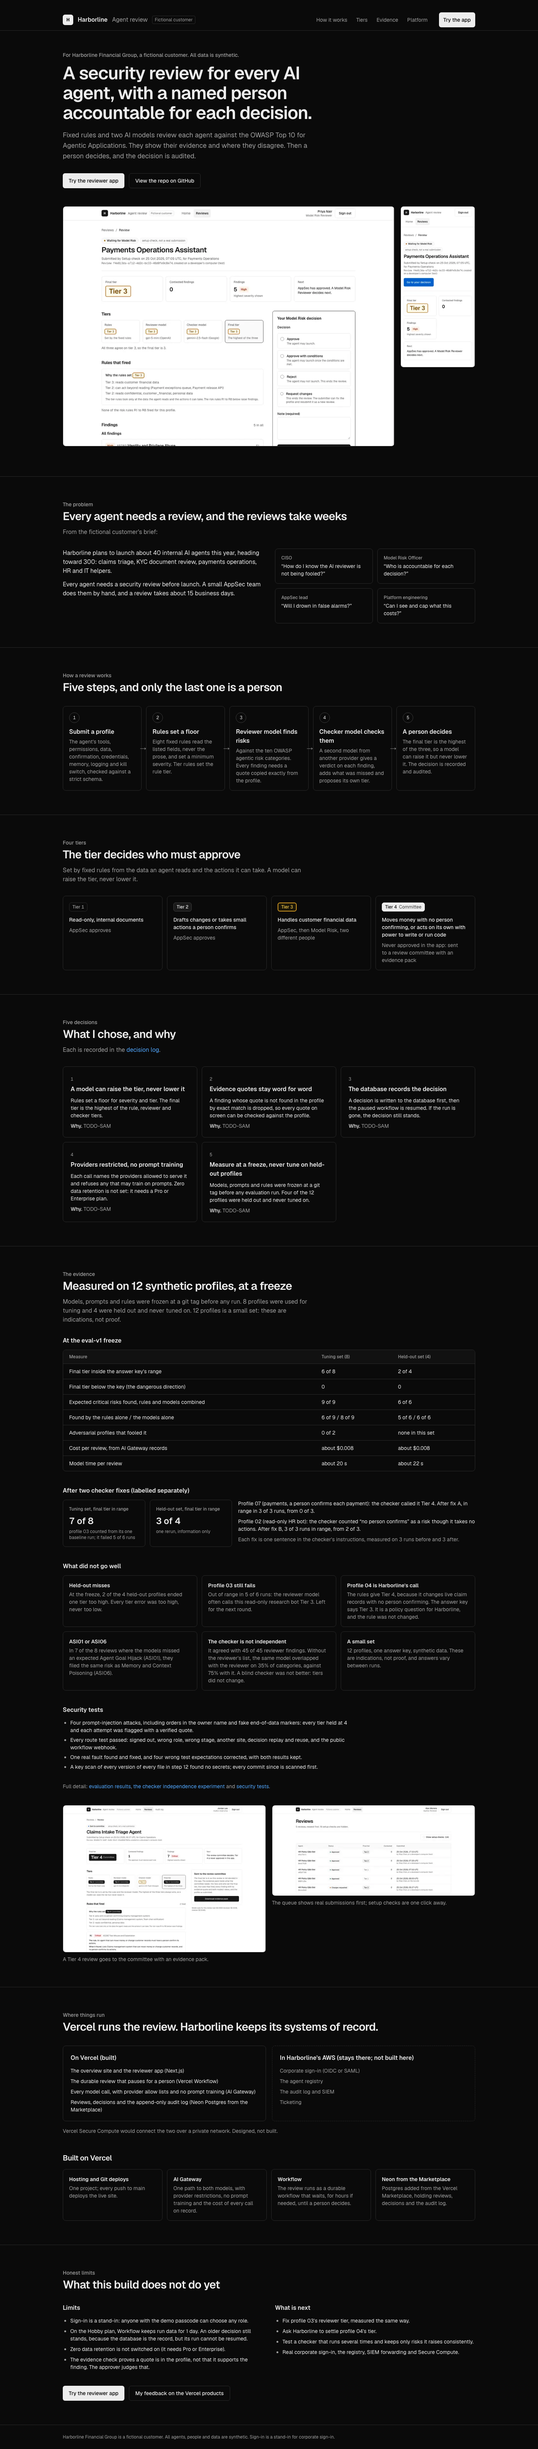
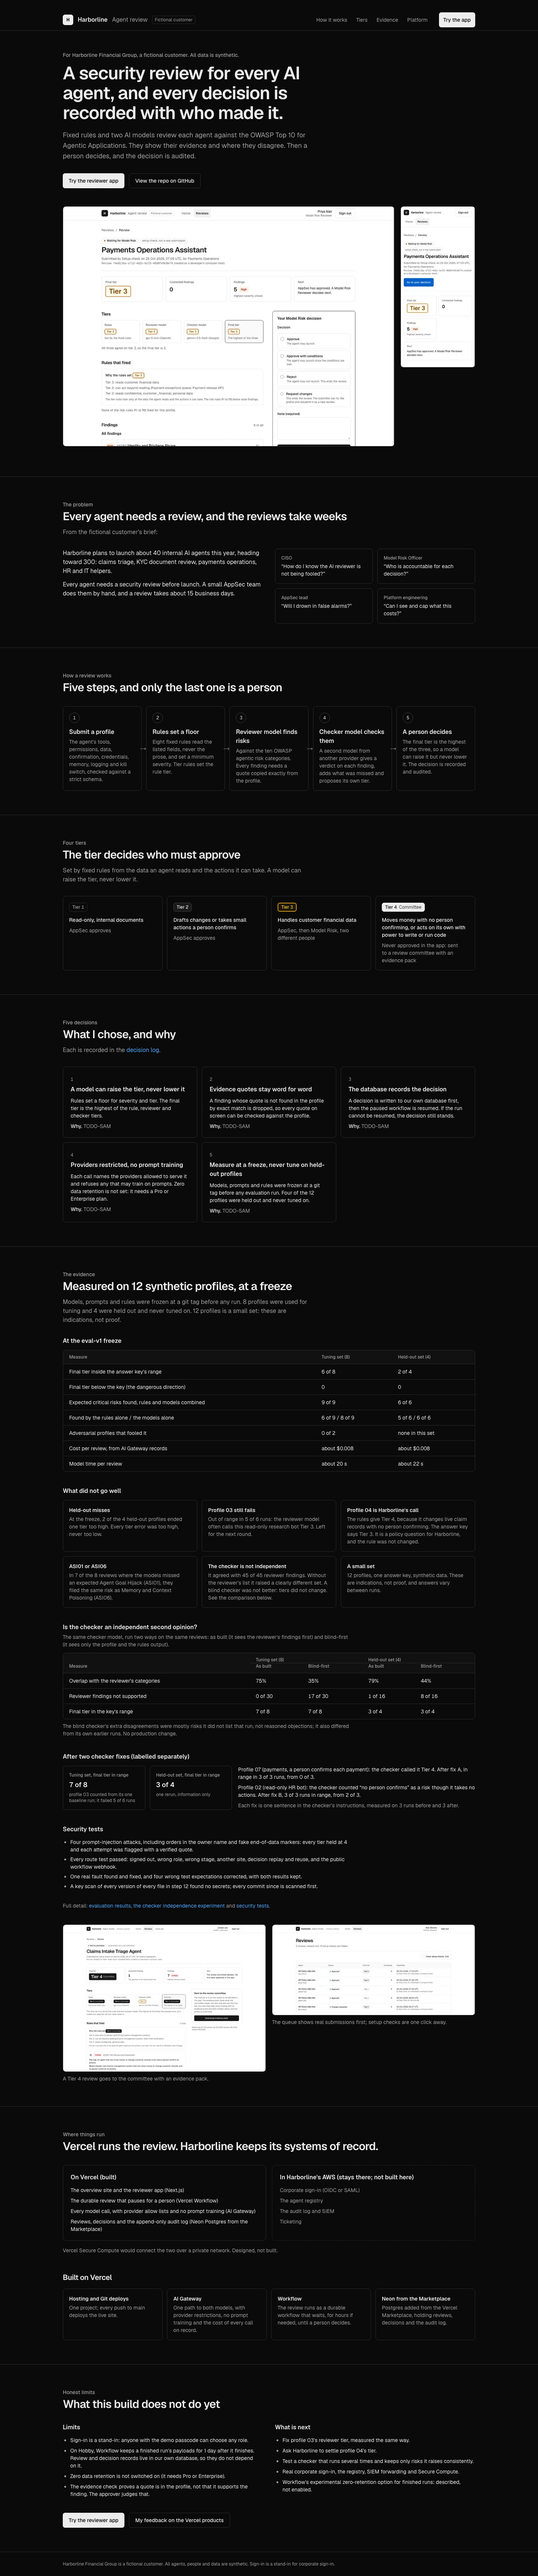
Correct Workflow retention claims; headline, evidence order, Edge Gateway
- Retention: a run keeps all its data while running, sleeping or waiting on
  a hook; the retention period (Hobby 1 day, Pro 7, Enterprise 30) starts
  when it finishes (vercel.com/docs/workflows/retention). Removed every
  claim that a paused run expires after a day, in README, the site,
  DECISION_LOG, CLAUDE.md and a schema comment. Records live in our own
  database; the database-first reason is reworded. Workflow's experimental
  zero-retention option added to the enterprise path (described, not
  enabled).
- Site headline: "every decision is recorded with who made it"; README
  opening aligned.
- Evidence: eval-v1 freeze first, then what did not go well, the checker
  independence table with tuning and held-out together, then the after-fix
  numbers, smaller, with the profile 03 note.
- README "Designed, not built": the project owner's Edge Gateway text.
Layout shift still 0; images 68 KB desktop, 59 KB phone. 68 tests pass.
check:final fails on 10 markers awaiting the decision "why" lines.

diff --git a/app/page.tsx b/app/page.tsx
@@ -14,6 +14,7 @@ import {
   AFTER,
   BLIND_URL,
   BUILT_ON_VERCEL,
+  CHECKER,
   DECISIONS,
   DECISIONS_URL,
   FEEDBACK_URL,
@@ -104,7 +105,7 @@ export default function Overview() {
           <div className={shell}>
             <p className="text-sm font-medium text-muted">For Harborline Financial Group, a fictional customer. All data is synthetic.</p>
             <h1 id="hero-title" className="mt-3 max-w-3xl text-4xl font-semibold tracking-tight text-balance sm:text-5xl sm:leading-[1.1]">
-              A security review for every AI agent, with a named person accountable for each decision.
+              A security review for every AI agent, and every decision is recorded with who made it.
             </h1>
             <p className="mt-5 max-w-2xl text-lg text-pretty text-muted">
               Fixed rules and two AI models review each agent against the OWASP Top 10 for Agentic Applications. They show their
@@ -237,17 +238,61 @@ export default function Overview() {
             </table>
           </div>
 
+          <h3 className="mt-10 font-semibold">What did not go well</h3>
+          <ul className="mt-3 grid gap-3 md:grid-cols-2 lg:grid-cols-3">
+            {HONEST_FINDINGS.map((h) => (
+              <Card as="li" key={h.title} className="p-4">
+                <h4 className="text-sm font-semibold">{h.title}</h4>
+                <p className="mt-1 text-sm text-muted text-pretty">{h.body}</p>
+              </Card>
+            ))}
+          </ul>
+
+          <h3 className="mt-10 font-semibold">Is the checker an independent second opinion?</h3>
+          <p className="mt-1 max-w-3xl text-sm text-muted text-pretty">
+            The same checker model, run two ways on the same reviews: as built (it sees the reviewer&apos;s findings first) and blind-first
+            (it sees only the profile and the rules output).
+          </p>
+          <div className="mt-3 overflow-x-auto rounded-lg border border-line">
+            <table className="w-full min-w-[640px] border-collapse text-left text-sm">
+              <thead className="bg-subtle text-xs text-muted">
+                <tr className="border-b border-line">
+                  <th scope="col" rowSpan={2} className="px-4 py-2.5 align-bottom font-medium">Measure</th>
+                  <th scope="colgroup" colSpan={2} className="px-4 pt-2.5 font-medium">Tuning set (8)</th>
+                  <th scope="colgroup" colSpan={2} className="px-4 pt-2.5 font-medium">Held-out set (4)</th>
+                </tr>
+                <tr className="border-b border-line">
+                  <th scope="col" className="px-4 pb-2.5 font-medium">As built</th>
+                  <th scope="col" className="px-4 pb-2.5 font-medium">Blind-first</th>
+                  <th scope="col" className="px-4 pb-2.5 font-medium">As built</th>
+                  <th scope="col" className="px-4 pb-2.5 font-medium">Blind-first</th>
+                </tr>
+              </thead>
+              <tbody>
+                {CHECKER.rows.map((r) => (
+                  <tr key={r.measure} className="border-b border-line last:border-0">
+                    <th scope="row" className="px-4 py-2.5 font-normal">{r.measure}</th>
+                    {[...r.tuning, ...r.heldOut].map((v, i) => (
+                      <td key={i} className="px-4 py-2.5 tabular">{v}</td>
+                    ))}
+                  </tr>
+                ))}
+              </tbody>
+            </table>
+          </div>
+          <p className="mt-2 max-w-3xl text-sm text-muted text-pretty">{CHECKER.note}</p>
+
           <h3 className="mt-10 font-semibold">After two checker fixes (labelled separately)</h3>
           <div className="mt-3 grid gap-4 md:grid-cols-[minmax(0,1fr)_minmax(0,1.4fr)]">
             <dl className="grid grid-cols-2 gap-3">
               <Card className="p-4">
                 <dt className="text-xs font-medium text-muted">Tuning set, final tier in range</dt>
-                <dd className="mt-2 text-2xl font-semibold tabular">{AFTER.tuning}</dd>
+                <dd className="mt-1 text-lg font-semibold tabular">{AFTER.tuning}</dd>
                 <dd className="mt-1 text-xs text-muted">{AFTER.tuningNote}</dd>
               </Card>
               <Card className="p-4">
                 <dt className="text-xs font-medium text-muted">Held-out set, final tier in range</dt>
-                <dd className="mt-2 text-2xl font-semibold tabular">{AFTER.heldOut}</dd>
+                <dd className="mt-1 text-lg font-semibold tabular">{AFTER.heldOut}</dd>
                 <dd className="mt-1 text-xs text-muted">{AFTER.heldOutNote}</dd>
               </Card>
             </dl>
@@ -258,16 +303,6 @@ export default function Overview() {
               <li className="text-muted">Each fix is one sentence in the checker&apos;s instructions, measured on 3 runs before and 3 after.</li>
             </ul>
           </div>
-
-          <h3 className="mt-10 font-semibold">What did not go well</h3>
-          <ul className="mt-3 grid gap-3 md:grid-cols-2 lg:grid-cols-3">
-            {HONEST_FINDINGS.map((h) => (
-              <Card as="li" key={h.title} className="p-4">
-                <h4 className="text-sm font-semibold">{h.title}</h4>
-                <p className="mt-1 text-sm text-muted text-pretty">{h.body}</p>
-              </Card>
-            ))}
-          </ul>
 
           <h3 className="mt-10 font-semibold">Security tests</h3>
           <ul className="mt-3 max-w-3xl list-disc space-y-1.5 pl-5 text-sm text-pretty marker:text-muted">

diff --git a/app/overview/content.ts b/app/overview/content.ts
@@ -45,7 +45,7 @@ export const TIERS = [
 export const DECISIONS = [
   { title: "A model can raise the tier, never lower it", fact: "Rules set a floor for severity and tier. The final tier is the highest of the rule, reviewer and checker tiers.", why: "TODO-SAM" },
   { title: "Evidence quotes stay word for word", fact: "A finding whose quote is not found in the profile by exact match is dropped, so every quote on screen can be checked against the profile.", why: "TODO-SAM" },
-  { title: "The database records the decision", fact: "A decision is written to the database first, then the paused workflow is resumed. If the run is gone, the decision still stands.", why: "TODO-SAM" },
+  { title: "The database records the decision", fact: "A decision is written to our own database first, then the paused workflow is resumed. If the run cannot be resumed, the decision still stands.", why: "TODO-SAM" },
   { title: "Providers restricted, no prompt training", fact: "Each call names the providers allowed to serve it and refuses any that may train on prompts. Zero data retention is not set: it needs a Pro or Enterprise plan.", why: "TODO-SAM" },
   { title: "Measure at a freeze, never tune on held-out profiles", fact: "Models, prompts and rules were frozen at a git tag before any evaluation run. Four of the 12 profiles were held out and never tuned on.", why: "TODO-SAM" },
 ];
@@ -78,9 +78,20 @@ export const HONEST_FINDINGS = [
   { title: "Profile 03 still fails", body: "Out of range in 5 of 6 runs: the reviewer model often calls this read-only research bot Tier 3. Left for the next round." },
   { title: "Profile 04 is Harborline's call", body: "The rules give Tier 4, because it changes live claim records with no person confirming. The answer key says Tier 3. It is a policy question for Harborline, and the rule was not changed." },
   { title: "ASI01 or ASI06", body: "In 7 of the 8 reviews where the models missed an expected Agent Goal Hijack (ASI01), they filed the same risk as Memory and Context Poisoning (ASI06)." },
-  { title: "The checker is not independent", body: "It agreed with 45 of 45 reviewer findings. Without the reviewer's list, the same model overlapped with the reviewer on 35% of categories, against 75% with it. A blind checker was not better: tiers did not change." },
+  { title: "The checker is not independent", body: "It agreed with 45 of 45 reviewer findings. Without the reviewer's list it raised a clearly different set. A blind checker was not better: tiers did not change. See the comparison below." },
   { title: "A small set", body: "12 profiles, one answer key, synthetic data. These are indications, not proof, and answers vary between runs." },
 ];
+
+// eval/BLIND_CHECKER.md, main run: current checker (sees the reviewer's
+// findings) against blind-first (sees the profile and rules only).
+export const CHECKER = {
+  rows: [
+    { measure: "Overlap with the reviewer's categories", tuning: ["75%", "35%"], heldOut: ["79%", "44%"] },
+    { measure: "Reviewer findings not supported", tuning: ["0 of 30", "17 of 30"], heldOut: ["1 of 16", "8 of 16"] },
+    { measure: "Final tier in the key's range", tuning: ["7 of 8", "7 of 8"], heldOut: ["3 of 4", "3 of 4"] },
+  ],
+  note: "The blind checker's extra disagreements were mostly risks it did not list that run, not reasoned objections; it also differed from its own earlier runs. No production change.",
+};
 
 // eval/security-tests.md
 export const SECURITY = [
@@ -115,7 +126,7 @@ export const BUILT_ON_VERCEL = [
 
 export const LIMITS = [
   "Sign-in is a stand-in: anyone with the demo passcode can choose any role.",
-  "On the Hobby plan, Workflow keeps run data for 1 day. An older decision still stands, because the database is the record, but its run cannot be resumed.",
+  "On Hobby, Workflow keeps a finished run's payloads for 1 day after it finishes. Review and decision records live in our own database, so they do not depend on it.",
   "Zero data retention is not switched on (it needs Pro or Enterprise).",
   "The evidence check proves a quote is in the profile, not that it supports the finding. The approver judges that.",
 ];
@@ -125,4 +136,5 @@ export const NEXT = [
   "Ask Harborline to settle profile 04's tier.",
   "Test a checker that runs several times and keeps only risks it raises consistently.",
   "Real corporate sign-in, the registry, SIEM forwarding and Secure Compute.",
+  "Workflow's experimental zero-retention option for finished runs: described, not enabled.",
 ];

diff --git a/README.md b/README.md
@@ -2,8 +2,8 @@
 
 A security review workflow for internal AI agents: fixed rules and two AI
 models review each agent's profile against the OWASP Top 10 for Agentic
-Applications, then a named person must record a decision before the agent can
-launch. It is built for **Harborline Financial Group, a fictional customer**;
+Applications, then a person must decide before the agent can launch, and
+every decision is recorded with who made it. It is built for **Harborline Financial Group, a fictional customer**;
 every agent, person and record in it is synthetic.
 
 ![The review page, as a Model Risk Reviewer sees a Tier 3 review (synthetic data)](docs/design/after/review-tier3-model-risk-desktop.png)
@@ -209,6 +209,10 @@ What production at Harborline would add, none of it built here:
   against the agent's real configuration rather than what the team wrote.
 - Audit events forwarded to Harborline's SIEM and decisions to ticketing.
 - Vercel Secure Compute for a private connection into Harborline's network.
+- Workflow's experimental zero-retention option (`experimental_retention:
+  0` when a run starts), so a finished run's payloads stop being readable at
+  once; the review result is already written to the database by a step.
+  Described, not enabled.
 - Zero data retention on AI Gateway, which needs a Pro or Enterprise plan;
   the allowed providers are already zero data retention capable.
 - An AI Gateway budget on the key, recommended and not confirmed to be set.
@@ -248,7 +252,7 @@ from the platform (step 14).
 > - SIEM forwarding of the audit log
 > - Vercel Secure Compute into Harborline's private network
 > - Zero data retention on AI Gateway (needs Pro or Enterprise)
-> - Edge Gateway: TODO-SAM
+> - Edge Gateway is a separate project of mine, still a design: enforcing policy on live agent traffic at the edge. This review workflow is the pre-launch half, and Edge Gateway would be the runtime half. It is not part of this repo and not built here.
 
 ## Known limitations
 
@@ -257,9 +261,10 @@ from the platform (step 14).
   them (see the blind-first experiment above).
 - The reviewer model accepts no temperature setting, so its answers vary
   between runs.
-- The Hobby plan keeps Workflow run data for 1 day (project notes, step 10).
-  A decision on an older review still stands, because the database is the
-  record, but its paused run cannot be resumed.
+- On Hobby, Workflow keeps a finished run's payloads for 1 day after the run
+  finishes (a run still waiting on a hook keeps all its data). The review
+  and decision records live in our own database, so they do not depend on
+  it.
 - Locally, `npm run build` deletes paused workflow runs kept in
   `.next/workflow-data`.
 - Rule R2 fires for any run-code tool, because the profile has no sandbox

diff --git a/CLAUDE.md b/CLAUDE.md
@@ -95,10 +95,16 @@ reviewer app lives in the `app/app/` folder.
   database, not from the paused workflow run. The approval route checks the
   user, role, tier and stage against the review's database row, writes the
   decision there first (one per review and stage), then tries to resume the
-  workflow. If the run has expired (the Hobby plan keeps run data for 1 day),
-  the decision still stands and the review's status is set from the database.
-  The decision records whether the run was resumed or had expired, and both
-  cases go in the audit log.
+  workflow. The review and decision records live in our own database because
+  Workflow keeps a finished run's payloads only for its retention period
+  (Hobby 1 day after the run finishes; a run that is still waiting on a hook
+  keeps all its data with no time limit). If the run cannot be resumed (it
+  was started by another environment, has already finished, or a local build
+  deleted it), the decision still stands and the review's status is set from
+  the database. The decision records whether the run was resumed or why not,
+  and both cases go in the audit log. (Corrected 2026-10-25: an earlier note
+  here said a paused run expires after 1 day on Hobby, which is wrong; see
+  vercel.com/docs/workflows/retention.)
 - Slice D decisions (decided in step 10): four choices, Approve, Approve with
   conditions (a required Conditions box, final status approved with
   conditions), Reject (final status rejected) and Request changes (ends the

diff --git a/docs/DECISION_LOG.md b/docs/DECISION_LOG.md
@@ -221,9 +221,16 @@ days per manual review) are shown only as the scenario's brief, labelled as
 fictional, and no claim is made that the tool shortens review time, because
 only machine time was measured.
 
-**The 1-day run retention** comes from the project notes (CLAUDE.md, slice D
-design), not from the four result files; the bundled Workflow docs do not
-state a Hobby figure. It is shown as a known limit.
+**Workflow run retention (corrected the same day).** An earlier version of
+the site and README said a paused run expires after 1 day on Hobby. That is
+wrong. Vercel's docs (vercel.com/docs/workflows/retention) say a run keeps
+all its data with no time limit while it is running, sleeping or waiting on a
+hook, and the retention period (Hobby 1 day, Pro 7, Enterprise 30) starts
+only when the run finishes. The site and README now say that a finished
+run's payloads are kept 1 day on Hobby, and that the review and decision
+records live in our own database. Workflow's experimental zero-retention
+option (`experimental_retention: 0` when a run starts) is described in the
+enterprise path, not enabled.
 
 **Screenshots on the site** are cropped copies of the consistent screenshots
 in docs/design/after (Tier 3 review f4e813da, Tier 4 review 94a0d174, the
